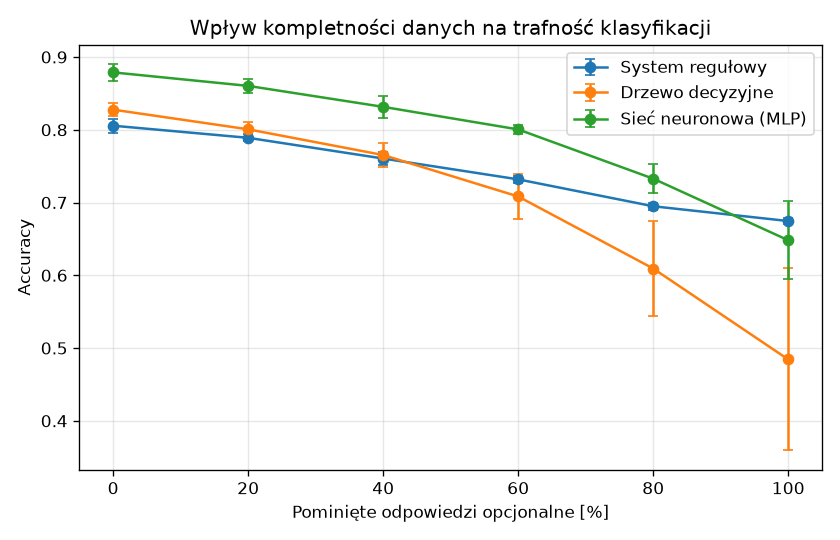
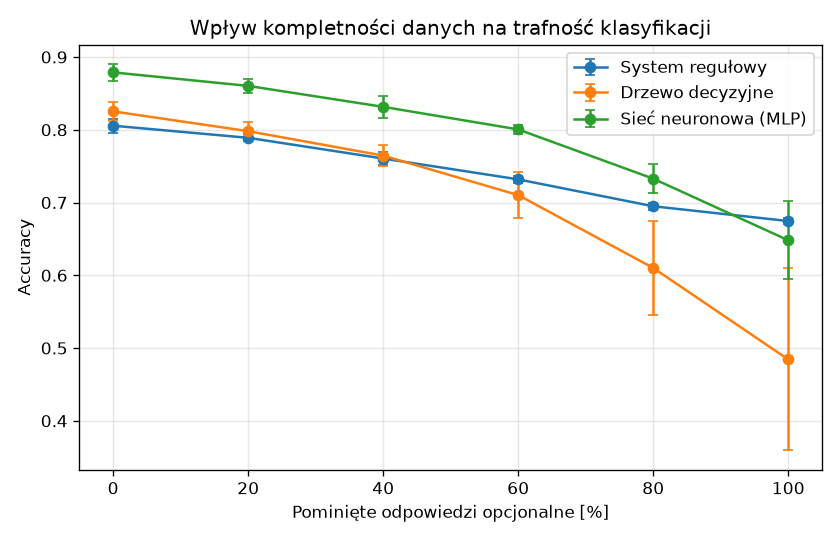
Dodano dobór hiperparametrów walidacją krzyżową
- przeszukiwanie siatki parametrów drzewa i sieci neuronowej
- wybór według reguły jednego odchylenia standardowego
- zmiana min. liczby próbek w liściu drzewa z 20 na 5

diff --git a/experiments/tuning.py b/experiments/tuning.py
@@ -1,0 +1,73 @@
+"""Dobór hiperparametrów modeli ML przeszukiwaniem siatki z walidacją krzyżową.
+
+Dla każdej kombinacji parametrów z siatki model jest uczony 5 razy, za każdym razem
+na 4/5 danych uczących, i oceniany na pozostałej 1/5 (5-krotna walidacja krzyżowa).
+Dane testowe nie biorą udziału w doborze, więc nie zawyżają późniejszej oceny.
+"""
+
+import numpy as np
+import pandas as pd
+from sklearn.model_selection import GridSearchCV, StratifiedKFold
+
+from app.ml.data_generator import remove_answers
+from app.ml.models import build_decision_tree, build_mlp
+from app.ml.train import SEED, TRAIN_MISSING_RATE
+from experiments.evaluation import split_data
+
+# Siatki parametrów. Przedrostek "model__" wskazuje krok potoku, którego dotyczy parametr.
+SEARCH_SPACES = {
+    "decision_tree": (
+        build_decision_tree,
+        {
+            "model__max_depth": [3, 4, 6, 8, 10, None],  # None: drzewo bez ograniczenia głębokości
+            "model__min_samples_leaf": [1, 5, 20, 50],
+        },
+    ),
+    "mlp": (
+        build_mlp,
+        {
+            "model__hidden_layer_sizes": [(16,), (32,), (32, 16), (64, 32)],
+            "model__alpha": [0.0001, 0.001, 0.01],  # siła regularyzacji L2
+        },
+    ),
+}
+CV_FOLDS = 5
+
+
+def tune_hyperparameters(n_samples: int, seed: int = SEED) -> pd.DataFrame:
+    """Zwraca wyniki walidacji krzyżowej (F1 makro) dla wszystkich kombinacji parametrów.
+
+    Kolumna is_current wskazuje kombinację używaną w aplikacji (app/ml/models.py).
+    Kolumna within_one_se oznacza wyniki gorsze od najlepszego o mniej niż jego odchylenie
+    standardowe (reguła jednego odchylenia: spośród nich wybiera się model najprostszy,
+    bo różnica względem najlepszego mieści się w losowej zmienności wyniku).
+    """
+    rng = np.random.default_rng(seed)
+    X_train, _, y_train, _ = split_data(n_samples, seed)
+    X_train = remove_answers(X_train, TRAIN_MISSING_RATE, rng)
+    folds = StratifiedKFold(n_splits=CV_FOLDS, shuffle=True, random_state=seed)
+
+    tables = []
+    for name, (build, grid) in SEARCH_SPACES.items():
+        current = build(seed).get_params()
+        search = GridSearchCV(build(seed), grid, scoring="f1_macro", cv=folds, n_jobs=-1)
+        search.fit(X_train, y_train)
+        results = search.cv_results_
+        for params, mean, std, rank in zip(
+            results["params"],
+            results["mean_test_score"],
+            results["std_test_score"],
+            results["rank_test_score"],
+        ):
+            tables.append({
+                "classifier": name,
+                "params": ", ".join(f"{key.removeprefix('model__')}={value}" for key, value in params.items()),
+                "f1_macro_mean": mean,
+                "f1_macro_std": std,
+                "rank": int(rank),
+                "is_current": all(current[key] == value for key, value in params.items()),
+            })
+    table = pd.DataFrame(tables).sort_values(["classifier", "rank"], ignore_index=True)
+    best = table.groupby("classifier")[["f1_macro_mean", "f1_macro_std"]].transform("first")
+    table["within_one_se"] = table["f1_macro_mean"] >= best["f1_macro_mean"] - best["f1_macro_std"]
+    return table

diff --git a/tests/test_experiments.py b/tests/test_experiments.py
@@ -16,6 +16,7 @@ from experiments.evaluation import (
 )
 from experiments.plan_quality import jaccard, plan_quality_study, random_preferences
 from experiments.run import run_experiments
+from experiments.tuning import SEARCH_SPACES, tune_hyperparameters
 
 
 def test_usuwanie_odpowiedzi():
@@ -66,6 +67,7 @@ def test_uruchomienie_eksperymentow(tmp_path, monkeypatch):
         "contraindications.png",
         "plan_quality.csv",
         "plan_quality.png",
+        "tuning.csv",
     }
     assert {path.name for path in output.iterdir()} == expected
 
@@ -103,3 +105,17 @@ def test_jakosc_planu():
     total = results["level_match"] + results["too_hard"] + results["too_easy"]
     assert np.allclose(total, 1.0)
     assert results["exercise_overlap"].between(0, 1).all()
+
+
+def test_dobor_hiperparametrow():
+    results = tune_hyperparameters(n_samples=600)
+    for name, (_, grid) in SEARCH_SPACES.items():
+        rows = results[results["classifier"] == name]
+        combinations = 1
+        for values in grid.values():
+            combinations *= len(values)
+        assert len(rows) == combinations
+        # Dokładnie jedna kombinacja odpowiada parametrom używanym w aplikacji.
+        assert rows["is_current"].sum() == 1
+        # Najlepszy wynik (rank 1) zawsze mieści się w granicy jednego odchylenia.
+        assert rows.iloc[0]["rank"] == 1 and rows.iloc[0]["within_one_se"]

diff --git a/experiments/run.py b/experiments/run.py
@@ -20,6 +20,7 @@ from experiments.evaluation import (
     summarize,
 )
 from experiments.plan_quality import plan_quality_study
+from experiments.tuning import tune_hyperparameters
 
 SEEDS = [1, 2, 3, 4, 5]
 N_SAMPLES = 5000
@@ -191,6 +192,11 @@ def run_experiments(output_dir: Path, seeds: list[int], n_samples: int) -> None:
     with mlflow.start_run(run_name="wykres-jakosci-planu"):
         mlflow.log_artifact(str(output_dir / "plan_quality.png"))
 
+    # Dobór hiperparametrów (walidacja krzyżowa na danych uczących)
+    tuning = tune_hyperparameters(n_samples)
+    tuning.round(4).to_csv(output_dir / "tuning.csv", index=False)
+    log_runs("dobor-hiperparametrow", tuning, ["classifier", "params"], ["f1_macro_mean", "f1_macro_std"])
+
     print(comparison_summary.round(3).to_string(index=False))
     print()
     print(completeness_summary.round(3).to_string(index=False))
@@ -200,6 +206,8 @@ def run_experiments(output_dir: Path, seeds: list[int], n_samples: int) -> None:
     print(per_limitation.round(2).to_string(index=False))
     print()
     print(plan_quality_summary.round(3).to_string(index=False))
+    print()
+    print(tuning.round(3).to_string(index=False))
 
 
 if __name__ == "__main__":

diff --git a/app/ml/models.py b/app/ml/models.py
@@ -20,10 +20,11 @@ def build_decision_tree(seed: int = 42) -> Pipeline:
     """Drzewo decyzyjne: model interpretowalny, jego decyzje da się rozpisać jako reguły.
 
     max_depth i min_samples_leaf ograniczają rozrost drzewa, żeby nie uczyło się szumu.
+    Wartości dobrano walidacją krzyżową (experiments/tuning.py, opis w docs/EXPERIMENTS.md).
     """
     return Pipeline([
         ("imputer", missing_values_imputer()),
-        ("model", DecisionTreeClassifier(max_depth=6, min_samples_leaf=20, random_state=seed)),
+        ("model", DecisionTreeClassifier(max_depth=6, min_samples_leaf=5, random_state=seed)),
     ])
 
 
@@ -32,6 +33,7 @@ def build_mlp(seed: int = 42) -> Pipeline:
 
     StandardScaler sprowadza cechy do podobnej skali, bez czego sieć uczy się źle.
     early_stopping przerywa uczenie, gdy wynik na części walidacyjnej przestaje rosnąć.
+    Rozmiar warstw potwierdzono walidacją krzyżową (experiments/tuning.py).
     """
     return Pipeline([
         ("imputer", missing_values_imputer()),

diff --git a/docs/EXPERIMENTS.md b/docs/EXPERIMENTS.md
@@ -15,8 +15,8 @@ Kod: `experiments/evaluation.py` (eksperymenty), `experiments/run.py` (zapis wyn
   - **F1 makro:** średnia miar F1 dla trzech poziomów (każdy poziom ma tę samą wagę),
   - **macierz pomyłek:** jaka część osób z danego poziomu trafiła do każdej klasy,
   - **czas uczenia** i **czas klasyfikacji jednej osoby** (odpowiada jednemu żądaniu API).
-- Wszystkie przebiegi są zapisywane w MLflow (eksperymenty `porownanie-klasyfikatorow`,
-  `wplyw-kompletnosci`, `wykrywanie-przeciwwskazan` i `jakosc-planu`).
+- Wszystkie przebiegi są zapisywane w MLflow (eksperymenty `dobor-hiperparametrow`,
+  `porownanie-klasyfikatorow`, `wplyw-kompletnosci`, `wykrywanie-przeciwwskazan` i `jakosc-planu`).
 
 Odtworzenie wyników:
 
@@ -26,6 +26,50 @@ python -m experiments.run      # ok. 1 min, wyniki w docs/experiments/
 mlflow ui                      # przeglądanie przebiegów: http://127.0.0.1:5000
 ```
 
+## Dobór hiperparametrów
+
+**Pytanie:** jakie ustawienia modeli ML (głębokość drzewa, rozmiar sieci) przyjąć?
+
+**Metodyka** (`experiments/tuning.py`):
+- Przeszukiwanie siatki (`GridSearchCV`) z 5-krotną walidacją krzyżową: dane uczące dzielone są
+  na 5 części, model uczy się na 4 i jest oceniany na piątej, kolejno dla każdej części.
+- Dane: część ucząca zbioru z `seed = 42` (3750 osób, 20% braków), ten sam zbiór co przy uczeniu
+  modeli dla aplikacji. Dane testowe nie biorą udziału w doborze, więc nie zawyżają późniejszej oceny.
+- Miara: F1 makro (średnia ± odchylenie z 5 części).
+- Siatki: drzewo – głębokość {3, 4, 6, 8, 10, bez limitu} × min. próbek w liściu {1, 5, 20, 50};
+  sieć – warstwy ukryte {(16), (32), (32, 16), (64, 32)} × regularyzacja L2 `alpha` {0,0001; 0,001; 0,01}.
+- Wybór według **reguły jednego odchylenia standardowego**: spośród ustawień, których wynik jest
+  gorszy od najlepszego o mniej niż jego odchylenie standardowe, wybiera się najprostsze. Różnica
+  mniejsza niż odchylenie mieści się w losowej zmienności, a prostszy model łatwiej zinterpretować
+  i trudniej go przeuczyć.
+
+Wyniki (`docs/experiments/tuning.csv`, pięć najlepszych ustawień każdego modelu):
+
+| Model            | Ustawienia                            | F1 makro (CV)   |
+|------------------|---------------------------------------|-----------------|
+| Drzewo decyzyjne | głębokość 10, min. 5 w liściu         | 0,816 ± 0,009   |
+| Drzewo decyzyjne | głębokość 8, min. 5 w liściu          | 0,814 ± 0,013   |
+| Drzewo decyzyjne | bez limitu, min. 5 w liściu           | 0,811 ± 0,013   |
+| Drzewo decyzyjne | głębokość 10, min. 1 w liściu         | 0,810 ± 0,008   |
+| Drzewo decyzyjne | **głębokość 6, min. 5 w liściu**      | **0,809 ± 0,008** |
+| Sieć neuronowa   | **(32, 16), alpha 0,0001**            | **0,860 ± 0,008** |
+| Sieć neuronowa   | (32, 16), alpha 0,001                 | 0,858 ± 0,006   |
+| Sieć neuronowa   | (32, 16), alpha 0,01                  | 0,857 ± 0,007   |
+| Sieć neuronowa   | (64, 32), alpha 0,01                  | 0,855 ± 0,021   |
+| Sieć neuronowa   | (16), alpha 0,001                     | 0,851 ± 0,016   |
+
+**Wnioski:**
+
+1. **Sieć neuronowa:** wstępnie przyjęte ustawienia (32 i 16 neuronów, `alpha` 0,0001) okazały się
+   najlepsze. Sieć z jedną warstwą wypada wyraźnie gorzej, a większa (64, 32) nie daje poprawy.
+2. **Drzewo decyzyjne:** najlepsze jest drzewo o głębokości 10 (0,816), ale drzewo o głębokości 6
+   mieści się w granicy jednego odchylenia (próg 0,807), a ma do 16 razy mniej liści, więc jego
+   reguły da się przeczytać. Wstępne ustawienie (min. 20 próbek w liściu, 0,799) było poza tą
+   granicą, dlatego zmieniono je na **min. 5 próbek w liściu**.
+3. Na zbiorach testowych zmiana drzewa nie przyniosła wyraźnej poprawy (accuracy 0,806 wobec
+   0,808 wcześniej, w granicach odchylenia), więc dobór parametrów potwierdza przede wszystkim,
+   że wyniki porównania nie wynikają z przypadkowo złych ustawień modeli.
+
 ## Eksperyment 1: porównanie klasyfikatorów
 
 Dane testowe z 20% pominiętych odpowiedzi opcjonalnych (`docs/experiments/comparison.csv`).
@@ -33,8 +77,8 @@ Dane testowe z 20% pominiętych odpowiedzi opcjonalnych (`docs/experiments/compa
 | Klasyfikator       | Accuracy        | F1 makro        | Czas uczenia | Czas klasyfikacji 1 osoby |
 |--------------------|-----------------|-----------------|--------------|---------------------------|
 | System regułowy    | 0,792 ± 0,003   | 0,792 ± 0,003   | —            | 0,02 ms                   |
-| Drzewo decyzyjne   | 0,808 ± 0,007   | 0,808 ± 0,006   | 0,01 s       | 0,42 ms                   |
-| Sieć neuronowa     | 0,866 ± 0,012   | 0,864 ± 0,012   | 0,13 s       | 0,53 ms                   |
+| Drzewo decyzyjne   | 0,806 ± 0,010   | 0,806 ± 0,011   | 0,01 s       | 0,41 ms                   |
+| Sieć neuronowa     | 0,866 ± 0,012   | 0,864 ± 0,012   | 0,14 s       | 0,52 ms                   |
 
 ![Macierze pomyłek](experiments/confusion_matrices.png)
 
@@ -42,9 +86,10 @@ Dane testowe z 20% pominiętych odpowiedzi opcjonalnych (`docs/experiments/compa
 
 1. Sieć neuronowa osiąga najwyższą trafność, o ok. 7 punktów procentowych wyższą od systemu
    regułowego i o ok. 6 p.p. wyższą od drzewa decyzyjnego.
-2. Żaden klasyfikator nie pomylił poziomu początkującego z zaawansowanym (zera w rogach macierzy).
-   Błędy dotyczą wyłącznie poziomów sąsiednich. Ma to znaczenie dla bezpieczeństwa:
-   osoba początkująca nie dostanie planu dla zaawansowanych.
+2. Żadna osoba początkująca nie została zaklasyfikowana jako zaawansowana. Pomyłka odwrotna
+   (zaawansowany uznany za początkującego) zdarzyła się sporadycznie: 0,1–0,2% osób, czyli kilka
+   na ok. 2000 zaawansowanych. Pozostałe błędy dotyczą poziomów sąsiednich. Ma to znaczenie dla
+   bezpieczeństwa: osoba początkująca nie dostanie planu dla zaawansowanych.
 3. Najtrudniejszy do rozpoznania jest poziom średni (70–78% poprawnych), bo graniczy z oboma
    pozostałymi.
 4. Czas klasyfikacji jednej osoby jest poniżej 1 ms dla wszystkich metod, więc wybór
@@ -58,11 +103,11 @@ i poziom aktywności (`docs/experiments/completeness.csv`).
 
 | Pominięte odpowiedzi | System regułowy | Drzewo decyzyjne | Sieć neuronowa  |
 |----------------------|-----------------|------------------|-----------------|
-| 0%                   | 0,806 ± 0,009   | 0,828 ± 0,009    | 0,879 ± 0,011   |
-| 20%                  | 0,789 ± 0,005   | 0,801 ± 0,010    | 0,860 ± 0,010   |
-| 40%                  | 0,760 ± 0,009   | 0,765 ± 0,016    | 0,832 ± 0,016   |
-| 60%                  | 0,732 ± 0,005   | 0,708 ± 0,031    | 0,800 ± 0,007   |
-| 80%                  | 0,695 ± 0,005   | 0,609 ± 0,066    | 0,733 ± 0,020   |
+| 0%                   | 0,806 ± 0,009   | 0,825 ± 0,013    | 0,879 ± 0,011   |
+| 20%                  | 0,789 ± 0,005   | 0,798 ± 0,012    | 0,860 ± 0,010   |
+| 40%                  | 0,760 ± 0,009   | 0,765 ± 0,014    | 0,832 ± 0,016   |
+| 60%                  | 0,732 ± 0,005   | 0,710 ± 0,031    | 0,800 ± 0,007   |
+| 80%                  | 0,695 ± 0,005   | 0,610 ± 0,065    | 0,733 ± 0,020   |
 | 100%                 | 0,675 ± 0,004   | 0,484 ± 0,125    | 0,648 ± 0,054   |
 
 ![Wpływ kompletności danych](experiments/completeness.png)
@@ -156,10 +201,10 @@ Wyniki: średnia z 5 ziaren (`docs/experiments/plan_quality.csv`).
 | Pominięte odpowiedzi | Klasyfikator     | Plan dla prawdziwego poziomu | Za trudny | Za łatwy | Ćwiczenie trudniejsze niż poziom | Podobieństwo ćwiczeń |
 |----------------------|------------------|------------------------------|-----------|----------|----------------------------------|----------------------|
 | 0%                   | System regułowy  | 0,806                        | 0,149     | 0,045    | 0,127                            | 0,935                |
-| 0%                   | Drzewo decyzyjne | 0,828                        | 0,084     | 0,088    | 0,070                            | 0,944                |
+| 0%                   | Drzewo decyzyjne | 0,825                        | 0,081     | 0,094    | 0,067                            | 0,943                |
 | 0%                   | Sieć neuronowa   | 0,879                        | 0,061     | 0,060    | 0,051                            | 0,961                |
 | 60%                  | System regułowy  | 0,732                        | 0,125     | 0,143    | 0,104                            | 0,909                |
-| 60%                  | Drzewo decyzyjne | 0,701                        | 0,169     | 0,130    | 0,151                            | 0,900                |
+| 60%                  | Drzewo decyzyjne | 0,703                        | 0,168     | 0,129    | 0,150                            | 0,901                |
 | 60%                  | Sieć neuronowa   | 0,798                        | 0,093     | 0,109    | 0,079                            | 0,933                |
 | 100%                 | System regułowy  | 0,675                        | 0,068     | 0,257    | 0,055                            | 0,886                |
 | 100%                 | Drzewo decyzyjne | 0,484                        | 0,315     | 0,200    | 0,292                            | 0,820                |

diff --git a/docs/ML.md b/docs/ML.md
@@ -75,9 +75,12 @@ więc system regułowy nie ma z góry zagwarantowanej trafności.
 `app/ml/models.py`. Oba modele to potoki scikit-learn, które zaczynają od uzupełnienia braków
 medianą z dodaniem kolumn 0/1 oznaczających brak (`SimpleImputer(add_indicator=True)`).
 
-- **Drzewo decyzyjne:** głębokość maks. 6, min. 20 próbek w liściu (ograniczenie przeuczenia).
+- **Drzewo decyzyjne:** głębokość maks. 6, min. 5 próbek w liściu (ograniczenie przeuczenia).
 - **Sieć neuronowa (MLP):** standaryzacja cech, warstwy ukryte 32 i 16 neuronów,
   wczesne zatrzymanie uczenia (`early_stopping`).
+
+Ustawienia dobrano walidacją krzyżową (`experiments/tuning.py`, opis w
+[EXPERIMENTS.md](EXPERIMENTS.md#dobór-hiperparametrów)).
 
 ## Uczenie i wyniki wstępne
 
@@ -87,7 +90,7 @@ podział 75% / 25% ze stratyfikacją, `seed = 42`.
 | Klasyfikator       | Accuracy | F1 makro |
 |--------------------|----------|----------|
 | System regułowy    | 0,794    | 0,792    |
-| Drzewo decyzyjne   | 0,820    | 0,817    |
+| Drzewo decyzyjne   | 0,821    | 0,817    |
 | Sieć neuronowa     | 0,861    | 0,857    |
 
 Szczegółowe porównanie (macierze pomyłek, wpływ kompletności danych, wiele powtórzeń):

diff --git a/docs/PLAN.md b/docs/PLAN.md
@@ -26,6 +26,6 @@ Każdy krok realizowany jest na osobnej gałęzi i scalany do `main` przez pull 
 ## Rozszerzenia części badawczej
 
 - [x] Eksperyment 4: jakość planu treningowego w zależności od kompletności danych
-- [ ] Dobór hiperparametrów modeli ML walidacją krzyżową
+- [x] Dobór hiperparametrów modeli ML walidacją krzyżową
 - [ ] Test istotności statystycznej różnic między klasyfikatorami
 - [ ] Pomiar czasu odpowiedzi API
